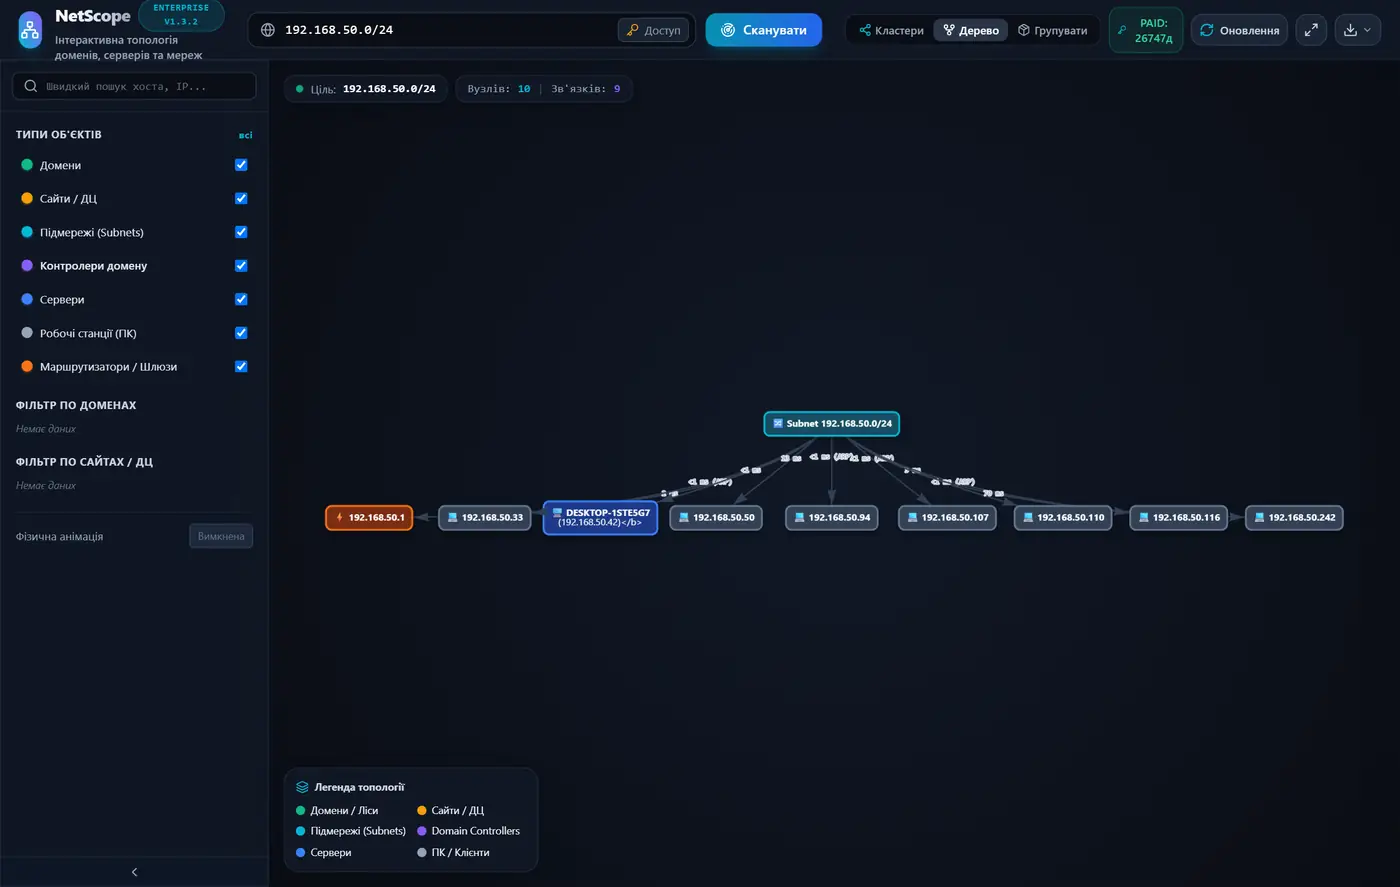
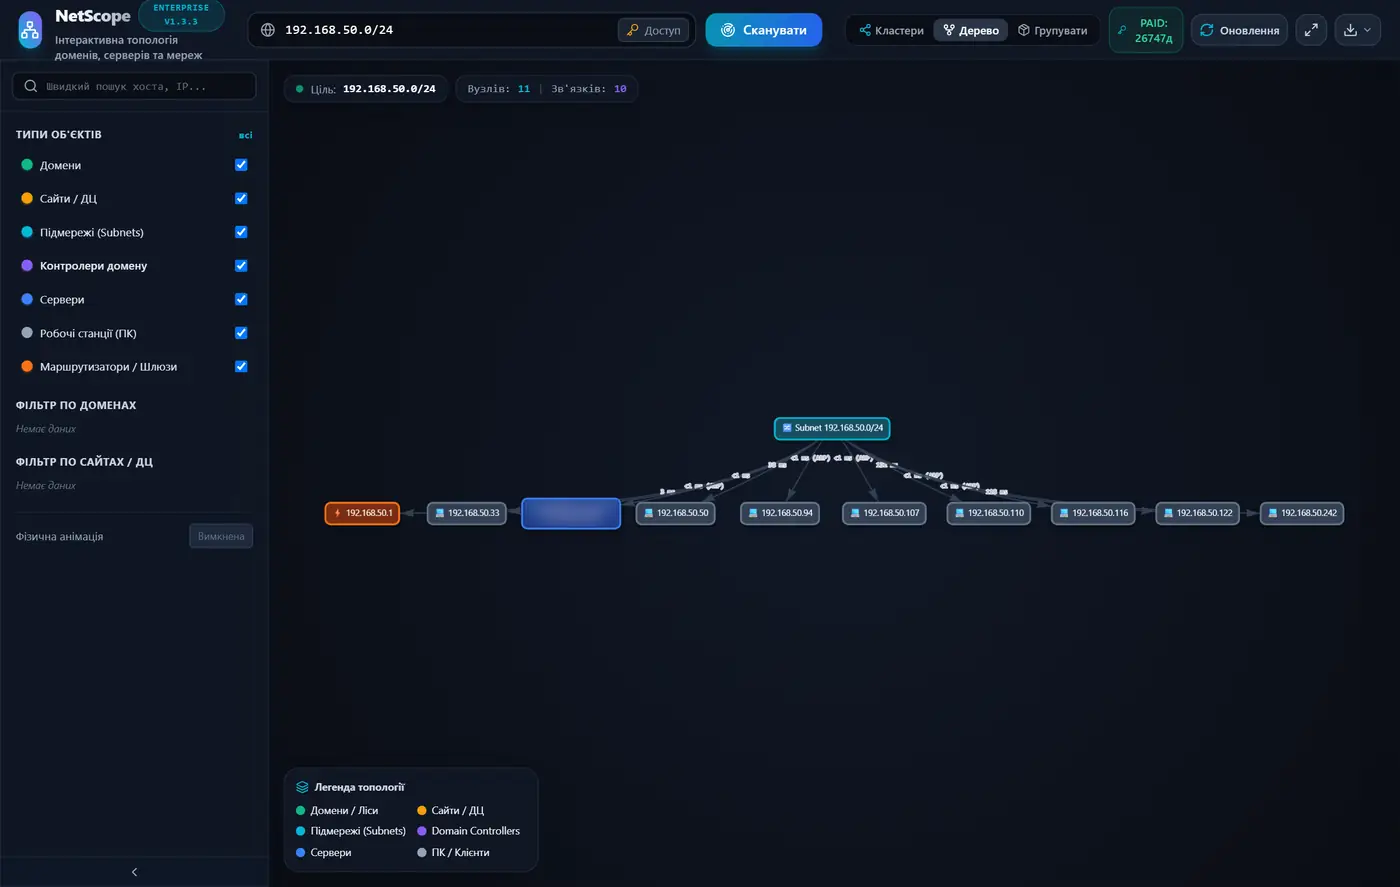
fix(hub): polish NetScope shot, i18n details, README badges
Redacted workstation name in the NetScope screenshot; fixed section numbering (01/02/03), Minisign typo and itchio update text; sync-hub also refreshes data-latest-code file names; README badge row now covers NetScope and 3D Games.

Changed region(s): [[0.215, 0.4566, 0.9829, 0.6088]]

diff --git a/translations.js b/translations.js
@@ -121,7 +121,7 @@ window.SITE_I18N = {
     'case.kubelens.sol': '<b>Рішення</b> Нативна десктопна IDE на Rust (Tauri 2) + React. Пряма робота через локальний Kubeconfig без серверних проксі, стрім ворклоадів і логів.',
     'case.kubelens.res': '<b>Результат</b> RAM < 45 МБ, миттєвий відгук топології, Minisign-підписи збірок, Windows 10/11 x64.',
     'case.kubelens.btn': 'Завантажити клієнт ↗',
-    'case.kubelens.meta': 'Windows x64 · MInisign',
+    'case.kubelens.meta': 'Windows x64 · Minisign',
     'case.pymon.badge': 'Observability · Go · SLA · Telegram',
     'case.pymon.title': 'PyMon NOC & Health Sentinel',
     'case.pymon.prob': '<b>Проблема</b> Складні стеки моніторингу генерують false alerts на коротких стрибках мережі, а терміни SSL-сертифікатів губляться.',
@@ -193,7 +193,7 @@ window.SITE_I18N = {
     'share.copy': '🔗 Копіювати лінк',
 
     /* --- hub sections (dist) --- */
-    'hub.sec.eyebrow': '01 / Безпека',
+    'hub.sec.eyebrow': '02 / Безпека',
     'hub.sec.title': 'Принципи надійності та безпеки',
     'hub.sec.sub': 'Чому розповсюдження через цей репозиторій передбачуване, захищене і безпечне для production.',
     'hub.sec.1.title': 'Minisign-підпис',
@@ -204,7 +204,7 @@ window.SITE_I18N = {
     'hub.sec.3.desc': 'Конфіги, SQLite-бази та репозиторії зберігаються. Замінюється лише бінарник, з автобекапом.',
     'hub.sec.4.title': 'Zero-telemetry & Offline',
     'hub.sec.4.desc': 'PWA працюють офлайн через Service Workers. Дані — лише локально, без сторонніх серверів.',
-    'hub.mat.eyebrow': '02 / Сумісність',
+    'hub.mat.eyebrow': '03 / Сумісність',
     'hub.mat.title': 'Зведена таблиця продуктів',
     'hub.mat.sub': '13 продуктів · гортайте → на мобільному',
     'hub.mat.th.product': 'Продукт',
@@ -225,7 +225,7 @@ window.SITE_I18N = {
     'hub.mat.update.uptime': 'Збереження даних',
     'hub.mat.update.gym': 'PWA · авто',
     'hub.mat.update.sales': 'Cron · GitHub Actions',
-    'hub.mat.update.games': 'PWA · авто',
+    'hub.mat.update.games': 'itch.io · миттєво',
     'hub.mat.update.calc': 'In-App · авто',
     'hub.mat.update.rescalc': 'In-App · авто',
     'hub.mat.update.diskcleaner': 'Auto · SHA-256',
@@ -463,7 +463,7 @@ window.SITE_I18N = {
     'share.copy': '🔗 Copy link',
 
     /* --- hub sections (dist) --- */
-    'hub.sec.eyebrow': '01 / Security',
+    'hub.sec.eyebrow': '02 / Security',
     'hub.sec.title': 'Reliability and security principles',
     'hub.sec.sub': 'Why distribution through this repository is predictable, protected and production-safe.',
     'hub.sec.1.title': 'Minisign signatures',
@@ -474,7 +474,7 @@ window.SITE_I18N = {
     'hub.sec.3.desc': 'Configs, SQLite databases and repositories are preserved. Only the binary is replaced, with auto-backup.',
     'hub.sec.4.title': 'Zero-telemetry & offline',
     'hub.sec.4.desc': 'PWAs work offline via Service Workers. Data stays local, with no third-party servers.',
-    'hub.mat.eyebrow': '02 / Compatibility',
+    'hub.mat.eyebrow': '03 / Compatibility',
     'hub.mat.title': 'Product matrix',
     'hub.mat.sub': '13 products · scroll → on mobile',
     'hub.mat.th.product': 'Product',
@@ -495,7 +495,7 @@ window.SITE_I18N = {
     'hub.mat.update.uptime': 'Keeps data',
     'hub.mat.update.gym': 'PWA · auto',
     'hub.mat.update.sales': 'Cron · GitHub Actions',
-    'hub.mat.update.games': 'PWA · auto',
+    'hub.mat.update.games': 'itch.io · instant',
     'hub.mat.update.calc': 'In-app · auto',
     'hub.mat.update.rescalc': 'In-app · auto',
     'hub.mat.update.diskcleaner': 'Auto · SHA-256',

diff --git a/index.html b/index.html
@@ -112,7 +112,7 @@
             </button>
             <div class="card-body">
               <div class="card-head">
-                <h3>BCK <span class="ver" data-latest-ver="bck-v">v0.10.10</span></h3>
+                <h3>BCK <span class="ver" data-latest-ver="bck-v">v0.10.11</span></h3>
                 <span class="cat">Ubuntu 24–26 · x86_64</span>
               </div>
               <p class="card-sub" data-i18n="p.bck.sub">Enterprise Backup &amp; Disaster Recovery — альтернатива Veeam</p>
@@ -160,7 +160,7 @@
             </button>
             <div class="card-body">
               <div class="card-head">
-                <h3>PyMon NOC <span class="ver" data-latest-ver="monitoring-v">v3.3.4</span></h3>
+                <h3>PyMon NOC <span class="ver" data-latest-ver="monitoring-v">v3.3.5</span></h3>
                 <span class="cat">Ubuntu · amd64/arm64</span>
               </div>
               <p class="card-sub" data-i18n="p.pymon.sub">Infrastructure Monitoring &amp; NOC Dashboard</p>
@@ -208,7 +208,7 @@
             </button>
             <div class="card-body">
               <div class="card-head">
-                <h3>MyGit <span class="ver" data-latest-ver="mygit-v">v3.7.3</span></h3>
+                <h3>MyGit <span class="ver" data-latest-ver="mygit-v">v3.7.4</span></h3>
                 <span class="cat">Debian/Ubuntu · multiarch</span>
               </div>
               <p class="card-sub" data-i18n="p.mygit.sub">Self-hosted Git — легка альтернатива Gitea/GitLab</p>
@@ -232,7 +232,7 @@
             </button>
             <div class="card-body">
               <div class="card-head">
-                <h3>Uptime Monitor <span class="ver" data-latest-ver="uptime-v">v3.8.12</span></h3>
+                <h3>Uptime Monitor <span class="ver" data-latest-ver="uptime-v">v3.8.13</span></h3>
                 <span class="cat">Debian/Ubuntu · multiarch</span>
               </div>
               <p class="card-sub" data-i18n="p.uptime.sub">Health Sentinel &amp; SLA-моніторинг</p>
@@ -423,7 +423,7 @@
     <section class="section" id="security">
       <div class="wrap">
         <div class="sec-head">
-          <p class="sec-eyebrow" data-i18n="hub.sec.eyebrow">01 / Безпека</p>
+          <p class="sec-eyebrow" data-i18n="hub.sec.eyebrow">02 / Безпека</p>
           <h2 data-i18n="hub.sec.title">Принципи надійності та безпеки</h2>
           <p class="sec-sub" data-i18n="hub.sec.sub">Чому розповсюдження через цей репозиторій передбачуване, захищене і безпечне для production.</p>
         </div>
@@ -440,7 +440,7 @@
     <section class="section" id="matrix">
       <div class="wrap">
         <div class="sec-head">
-          <p class="sec-eyebrow" data-i18n="hub.mat.eyebrow">02 / Сумісність</p>
+          <p class="sec-eyebrow" data-i18n="hub.mat.eyebrow">03 / Сумісність</p>
           <h2 data-i18n="hub.mat.title">Зведена таблиця продуктів</h2>
           <p class="sec-sub" data-i18n="hub.mat.sub">13 продуктів · гортайте → на мобільному</p>
         </div>

diff --git a/README.md b/README.md
@@ -23,6 +23,8 @@
 <a href="#rdm"><img src="https://img.shields.io/badge/RDM_Manager-Windows-6366F1?style=for-the-badge&logo=windows&logoColor=white" alt="RDM Manager"></a>
 <a href="#sales"><img src="https://img.shields.io/badge/Game_Sales-PWA-C084FC?style=for-the-badge&logo=steam&logoColor=white" alt="Game Sales"></a>
 <a href="#uptime-monitor"><img src="https://img.shields.io/badge/Uptime_Monitor-Ubuntu-14B8A6?style=for-the-badge&logo=linux&logoColor=white" alt="Uptime Monitor"></a>
+<a href="https://github.com/ajjs1ajjs/dist/releases?q=netscope"><img src="https://img.shields.io/badge/NetScope-Windows-0EA5E9?style=for-the-badge&logo=windows&logoColor=white" alt="NetScope Enterprise"></a>
+<a href="https://ajjs1ajjs.itch.io"><img src="https://img.shields.io/badge/3D_Games-WebGL-8B5CF6?style=for-the-badge&logo=unity&logoColor=white" alt="3D Game Collection"></a>
 
 <sub><b>13 продуктів</b> &nbsp;·&nbsp; Linux &nbsp;·&nbsp; Windows &nbsp;·&nbsp; Web / PWA &nbsp;·&nbsp; зібрано в GitHub Actions, перевірено SHA-256</sub>
 
